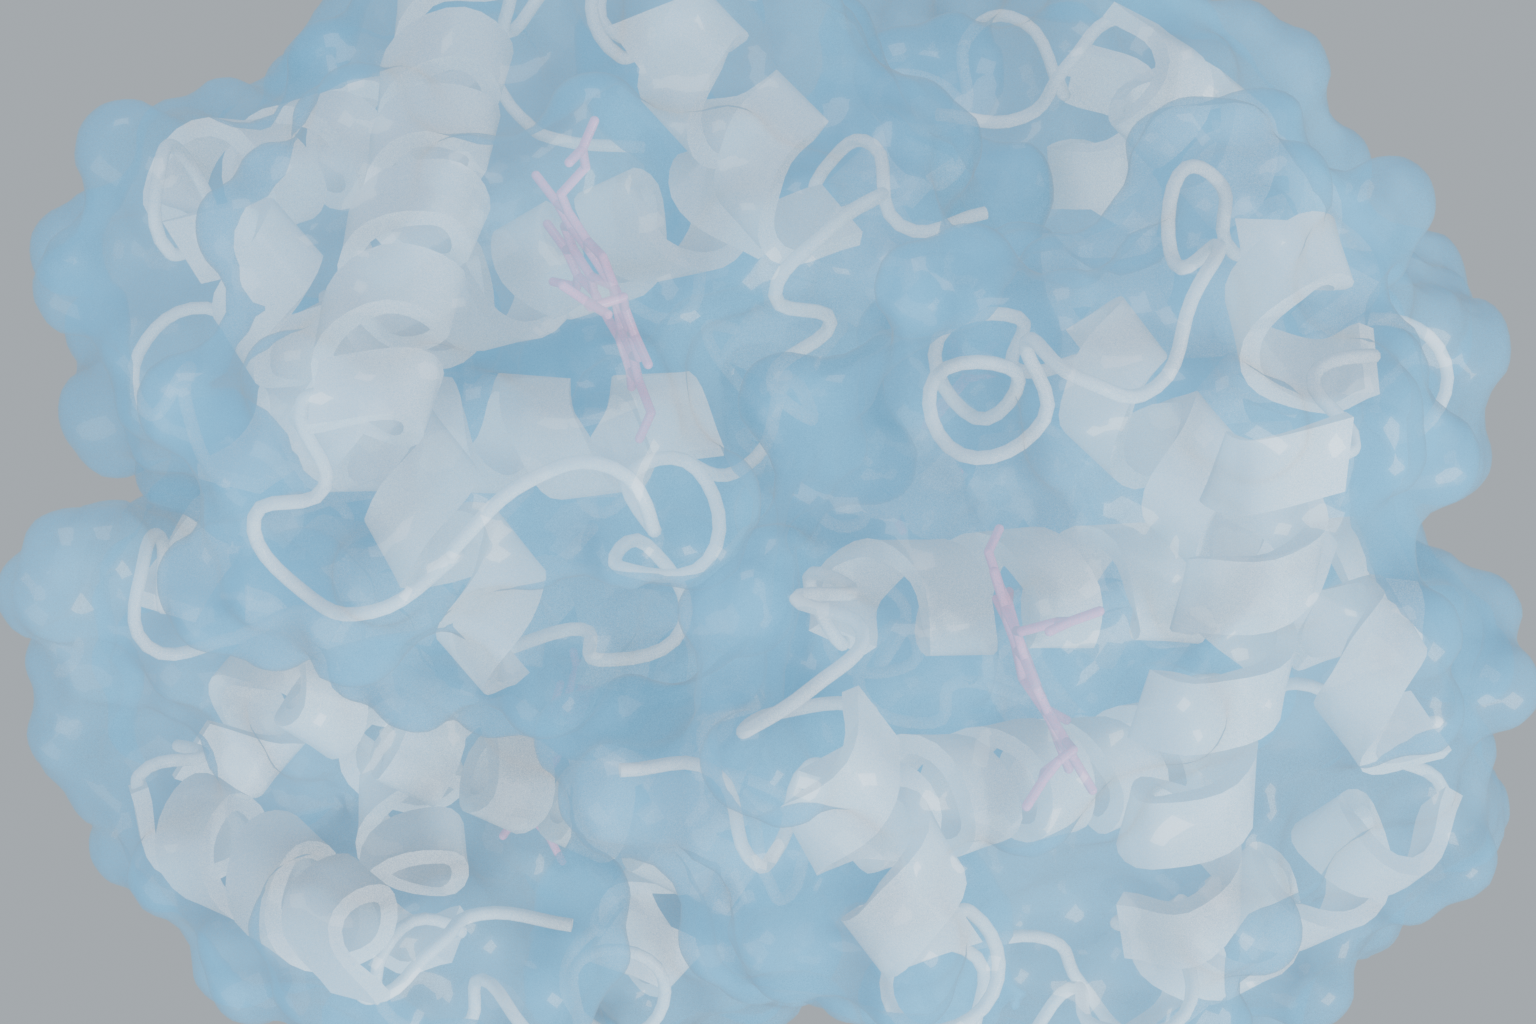
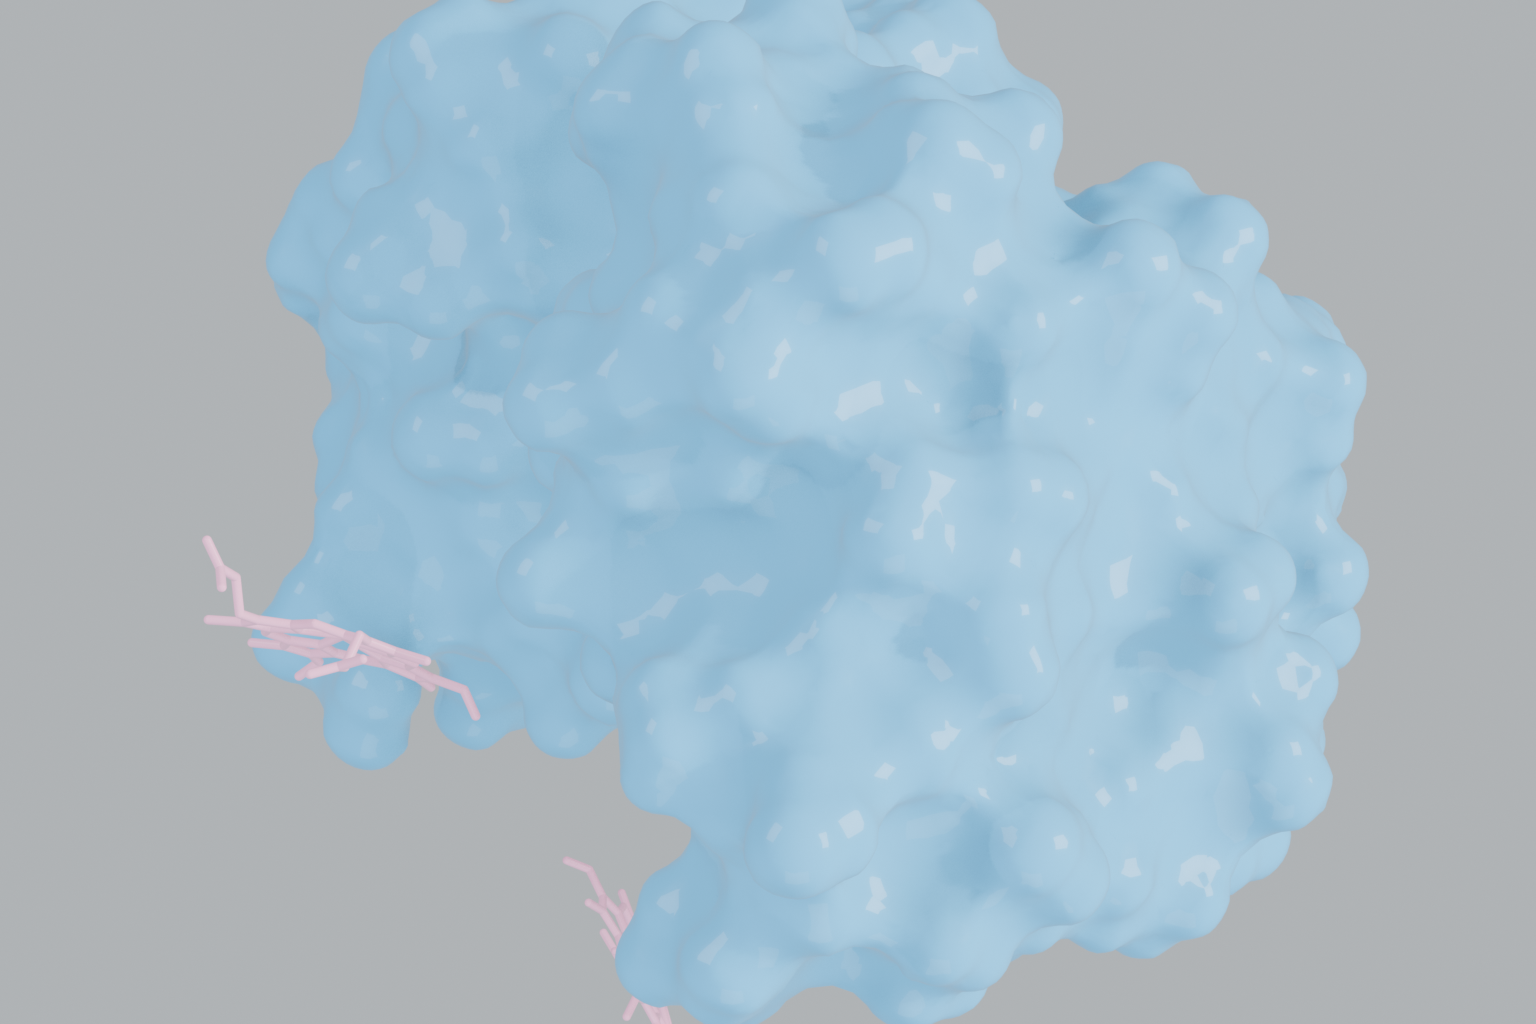
Add notebook cells for style renders and retune press presets

diff --git a/scripts/render_press_release_examples.py b/scripts/render_press_release_examples.py
@@ -35,14 +35,14 @@ class RenderPreset:
 PRESETS: list[RenderPreset] = [
     RenderPreset(
         name="01_dual_surface_reveal",
-        bg=(0.66, 0.73, 0.79, 1.0),
+        bg=(0.78, 0.85, 0.90, 1.0),
         camera_yaw_deg=-10.0,
         camera_pitch_deg=3.0,
         camera_distance_scale=1.0,
-        key_energy=680.0,
-        fill_energy=260.0,
-        rim_energy=220.0,
-        exposure=-0.56,
+        key_energy=620.0,
+        fill_energy=220.0,
+        rim_energy=210.0,
+        exposure=-0.45,
         look="High Contrast",
     ),
     RenderPreset(
@@ -51,10 +51,10 @@ PRESETS: list[RenderPreset] = [
         camera_yaw_deg=12.0,
         camera_pitch_deg=7.0,
         camera_distance_scale=0.92,
-        key_energy=640.0,
-        fill_energy=300.0,
-        rim_energy=280.0,
-        exposure=-0.52,
+        key_energy=700.0,
+        fill_energy=320.0,
+        rim_energy=260.0,
+        exposure=-0.62,
         look="High Contrast",
     ),
     RenderPreset(
@@ -71,26 +71,26 @@ PRESETS: list[RenderPreset] = [
     ),
     RenderPreset(
         name="04_mint_cream_surface",
-        bg=(0.82, 0.88, 0.76, 1.0),
+        bg=(0.90, 0.95, 0.86, 1.0),
         camera_yaw_deg=-16.0,
         camera_pitch_deg=-6.0,
-        camera_distance_scale=0.88,
+        camera_distance_scale=0.90,
         key_energy=620.0,
-        fill_energy=240.0,
-        rim_energy=200.0,
-        exposure=-0.75,
+        fill_energy=220.0,
+        rim_energy=220.0,
+        exposure=-0.38,
         look="High Contrast",
     ),
     RenderPreset(
         name="05_editorial_peach_cyan",
-        bg=(0.84, 0.79, 0.79, 1.0),
+        bg=(0.88, 0.90, 0.92, 1.0),
         camera_yaw_deg=24.0,
         camera_pitch_deg=-2.0,
         camera_distance_scale=0.92,
-        key_energy=680.0,
-        fill_energy=260.0,
-        rim_energy=220.0,
-        exposure=-0.72,
+        key_energy=620.0,
+        fill_energy=240.0,
+        rim_energy=240.0,
+        exposure=-0.40,
         look="High Contrast",
     ),
 ]
@@ -227,7 +227,7 @@ def create_soft_material(
     _set_input(bsdf, ("Coat Weight", "Coat"), coat)
     _set_input(bsdf, ("Alpha",), alpha)
     _set_input(bsdf, ("Emission Strength",), emission_strength)
-    _set_input(bsdf, ("Specular IOR Level", "Specular"), 0.22)
+    _set_input(bsdf, ("Specular IOR Level", "Specular"), 0.08)
 
     if hasattr(material, "blend_method"):
         material.blend_method = "HASHED" if alpha < 0.999 else "OPAQUE"
@@ -256,8 +256,8 @@ def create_wire_overlay_material(
     node_base.location = (-200, 80)
     _set_input(node_base, ("Base Color",), fill_color)
     _set_input(node_base, ("Roughness",), roughness)
-    _set_input(node_base, ("Transmission Weight", "Transmission"), 0.25)
-    _set_input(node_base, ("Coat Weight", "Coat"), 0.45)
+    _set_input(node_base, ("Transmission Weight", "Transmission"), 0.06)
+    _set_input(node_base, ("Coat Weight", "Coat"), 0.40)
     _set_input(node_base, ("Alpha",), alpha)
 
     node_wire = tree.nodes.new("ShaderNodeWireframe")
@@ -293,6 +293,38 @@ def get_residue_bounds(molecule) -> tuple[int, int, int]:
     hi = max(res_ids)
     mid = res_ids[len(res_ids) // 2]
     return lo, mid, hi
+
+
+def get_chain_ids(molecule) -> list[str]:
+    chain_ids: list[str] = []
+    seen: set[str] = set()
+    for raw in molecule.array.chain_id:
+        if isinstance(raw, (bytes, bytearray)):
+            chain = raw.decode("utf-8", errors="ignore").strip()
+        else:
+            chain = str(raw).strip()
+        if not chain or chain in seen:
+            continue
+        seen.add(chain)
+        chain_ids.append(chain)
+    return chain_ids
+
+
+def get_polymer_selections(molecule):
+    polymer_all = molecule.select.reset().is_polymer()
+    chain_ids = get_chain_ids(molecule)
+    if len(chain_ids) >= 2:
+        split = max(1, len(chain_ids) // 2)
+        group_a = tuple(chain_ids[:split])
+        group_b = tuple(chain_ids[split:]) if chain_ids[split:] else group_a
+        polymer_a = molecule.select.reset().is_polymer().chain_id(group_a)
+        polymer_b = molecule.select.reset().is_polymer().chain_id(group_b)
+        return polymer_a, polymer_b, polymer_all, chain_ids
+
+    lo, mid, hi = get_residue_bounds(molecule)
+    polymer_a = molecule.select.reset().res_id(range(lo, mid + 1)).is_polymer()
+    polymer_b = molecule.select.reset().res_id(range(mid + 1, hi + 1)).is_polymer()
+    return polymer_a, polymer_b, polymer_all, chain_ids
 
 
 def get_object_center(obj: bpy.types.Object) -> Vector:
@@ -331,16 +363,14 @@ def add_ligand_style(molecule, material: bpy.types.Material, style_name: str = "
 
 
 def apply_preset_styles(preset: RenderPreset, molecule) -> None:
+    polymer_a, polymer_b, polymer_all, chain_ids = get_polymer_selections(molecule)
     lo, mid, hi = get_residue_bounds(molecule)
-    polymer_a = molecule.select.reset().res_id(range(lo, mid + 1)).not_solvent()
-    polymer_b = molecule.select.reset().res_id(range(mid + 1, hi + 1)).not_solvent()
-    polymer_all = molecule.select.reset().is_polymer()
 
     if preset.name.startswith("01_"):
-        surf_a = create_soft_material("PR01_SurfaceA", (0.12, 0.44, 0.72, 1.0), 0.36, 0.01, 0.36, 0.50)
-        surf_b = create_soft_material("PR01_SurfaceB", (0.18, 0.67, 0.54, 1.0), 0.38, 0.01, 0.34, 0.48)
-        core = create_soft_material("PR01_Core", (0.90, 0.93, 0.96, 1.0), 0.36, 0.0, 0.10, 1.0)
-        ligand = create_soft_material("PR01_Ligand", (0.98, 0.42, 0.67, 1.0), 0.22, 0.0, 0.14, 1.0)
+        surf_a = create_soft_material("PR01_SurfaceA", (0.10, 0.49, 0.86, 1.0), 0.30, 0.00, 0.24, 1.0)
+        surf_b = create_soft_material("PR01_SurfaceB", (0.19, 0.77, 0.62, 1.0), 0.31, 0.00, 0.22, 1.0)
+        core = create_soft_material("PR01_Core", (0.83, 0.93, 0.98, 1.0), 0.30, 0.0, 0.08, 1.0)
+        ligand = create_soft_material("PR01_Ligand", (0.98, 0.43, 0.68, 1.0), 0.20, 0.0, 0.14, 1.0)
         molecule.add_style("surface", selection=polymer_a, material=surf_a)
         molecule.add_style("surface", selection=polymer_b, material=surf_b)
         molecule.add_style("cartoon", selection=polymer_all, material=core)
@@ -350,61 +380,76 @@ def apply_preset_styles(preset: RenderPreset, molecule) -> None:
     if preset.name.startswith("02_"):
         wire_surf = create_wire_overlay_material(
             "PR02_WireSurface",
-            fill_color=(0.12, 0.61, 0.93, 1.0),
-            line_color=(0.86, 0.90, 0.98, 1.0),
-            roughness=0.34,
-            alpha=0.62,
+            fill_color=(0.03, 0.56, 0.95, 1.0),
+            line_color=(0.95, 0.97, 1.00, 1.0),
+            roughness=0.28,
+            alpha=0.68,
         )
-        core = create_soft_material("PR02_Core", (0.96, 0.63, 0.34, 1.0), 0.34, 0.0, 0.12, 1.0)
-        ligand = create_soft_material("PR02_Ligand", (0.72, 0.82, 0.23, 1.0), 0.18, 0.0, 0.20, 1.0)
+        core_a = create_soft_material("PR02_CoreA", (0.98, 0.64, 0.34, 1.0), 0.32, 0.0, 0.10, 1.0)
+        core_b = create_soft_material("PR02_CoreB", (0.96, 0.56, 0.78, 1.0), 0.32, 0.0, 0.10, 1.0)
+        ligand = create_soft_material("PR02_Ligand", (0.82, 0.88, 0.29, 1.0), 0.16, 0.0, 0.18, 1.0)
         molecule.add_style("surface", selection=polymer_all, material=wire_surf)
-        molecule.add_style("cartoon", selection=polymer_all, material=core)
+        molecule.add_style("cartoon", selection=polymer_a, material=core_a)
+        molecule.add_style("cartoon", selection=polymer_b, material=core_b)
         add_ligand_style(molecule, ligand, "sticks")
         return
 
     if preset.name.startswith("03_"):
         palette = [
-            (0.95, 0.86, 0.63, 1.0),
-            (0.69, 0.86, 0.98, 1.0),
-            (0.95, 0.66, 0.84, 1.0),
-            (0.69, 0.94, 0.76, 1.0),
-            (0.98, 0.75, 0.67, 1.0),
+            (0.96, 0.89, 0.66, 1.0),
+            (0.74, 0.89, 0.99, 1.0),
+            (0.97, 0.70, 0.87, 1.0),
+            (0.74, 0.95, 0.79, 1.0),
+            (0.99, 0.78, 0.70, 1.0),
         ]
-        chunks = [
-            (lo, lo + (mid - lo) // 2),
-            (lo + (mid - lo) // 2 + 1, mid),
-            (mid + 1, mid + (hi - mid) // 2),
-            (mid + (hi - mid) // 2 + 1, hi),
-        ]
-        for idx, (start, end) in enumerate(chunks):
-            if end < start:
-                continue
-            mat = create_soft_material(
-                f"PR03_Cartoon_{idx}",
-                palette[idx],
-                roughness=0.42,
-                transmission=0.0,
-                coat=0.08,
-                alpha=1.0,
-            )
-            selection = molecule.select.reset().res_id(range(start, end + 1)).is_polymer()
-            molecule.add_style("cartoon", selection=selection, material=mat)
-        ligand = create_soft_material("PR03_Ligand", (0.96, 0.53, 0.72, 1.0), 0.20, 0.0, 0.18, 1.0)
+        if chain_ids:
+            for idx, chain_id in enumerate(chain_ids):
+                mat = create_soft_material(
+                    f"PR03_Cartoon_{idx}",
+                    palette[idx % len(palette)],
+                    roughness=0.40,
+                    transmission=0.0,
+                    coat=0.08,
+                    alpha=1.0,
+                )
+                selection = molecule.select.reset().is_polymer().chain_id(chain_id)
+                molecule.add_style("cartoon", selection=selection, material=mat)
+        else:
+            chunks = [
+                (lo, lo + (mid - lo) // 2),
+                (lo + (mid - lo) // 2 + 1, mid),
+                (mid + 1, mid + (hi - mid) // 2),
+                (mid + (hi - mid) // 2 + 1, hi),
+            ]
+            for idx, (start, end) in enumerate(chunks):
+                if end < start:
+                    continue
+                mat = create_soft_material(
+                    f"PR03_Cartoon_{idx}",
+                    palette[idx],
+                    roughness=0.40,
+                    transmission=0.0,
+                    coat=0.08,
+                    alpha=1.0,
+                )
+                selection = molecule.select.reset().res_id(range(start, end + 1)).is_polymer()
+                molecule.add_style("cartoon", selection=selection, material=mat)
+        ligand = create_soft_material("PR03_Ligand", (0.97, 0.58, 0.76, 1.0), 0.18, 0.0, 0.14, 1.0)
         add_ligand_style(molecule, ligand, "sticks")
         return
 
     if preset.name.startswith("04_"):
         shell_a = create_wire_overlay_material(
             "PR04_ShellA",
-            fill_color=(0.84, 0.92, 0.80, 1.0),
-            line_color=(0.67, 0.77, 0.61, 1.0),
-            roughness=0.38,
-            alpha=0.46,
+            fill_color=(0.84, 0.92, 0.78, 1.0),
+            line_color=(0.74, 0.82, 0.66, 1.0),
+            roughness=0.34,
+            alpha=0.74,
         )
-        shell_b = create_soft_material("PR04_ShellB", (0.93, 0.96, 0.89, 1.0), 0.42, 0.01, 0.16, 0.32)
-        core_a = create_soft_material("PR04_CoreA", (0.60, 0.75, 0.28, 1.0), 0.36, 0.0, 0.06, 1.0, emission_strength=0.08)
-        core_b = create_soft_material("PR04_CoreB", (0.16, 0.67, 0.77, 1.0), 0.32, 0.0, 0.08, 1.0, emission_strength=0.10)
-        ligand = create_soft_material("PR04_Ligand", (0.86, 0.48, 0.19, 1.0), 0.20, 0.0, 0.12, 1.0)
+        shell_b = create_soft_material("PR04_ShellB", (0.92, 0.96, 0.87, 1.0), 0.34, 0.00, 0.08, 0.68)
+        core_a = create_soft_material("PR04_CoreA", (0.62, 0.82, 0.30, 1.0), 0.30, 0.0, 0.06, 1.0, emission_strength=0.09)
+        core_b = create_soft_material("PR04_CoreB", (0.13, 0.83, 0.90, 1.0), 0.28, 0.0, 0.08, 1.0, emission_strength=0.12)
+        ligand = create_soft_material("PR04_Ligand", (0.90, 0.60, 0.26, 1.0), 0.18, 0.0, 0.12, 1.0)
         molecule.add_style("surface", selection=polymer_a, material=shell_a)
         molecule.add_style("surface", selection=polymer_b, material=shell_b)
         molecule.add_style("cartoon", selection=polymer_a, material=core_a)
@@ -413,11 +458,11 @@ def apply_preset_styles(preset: RenderPreset, molecule) -> None:
         return
 
     # 05 default
-    surf_a = create_soft_material("PR05_SurfaceA", (0.22, 0.54, 0.82, 1.0), 0.34, 0.01, 0.22, 0.52)
-    surf_b = create_soft_material("PR05_SurfaceB", (0.76, 0.43, 0.66, 1.0), 0.34, 0.01, 0.22, 0.48)
-    core_a = create_soft_material("PR05_CoreA", (0.84, 0.40, 0.22, 1.0), 0.34, 0.0, 0.10, 1.0, emission_strength=0.06)
-    core_b = create_soft_material("PR05_CoreB", (0.18, 0.68, 0.80, 1.0), 0.32, 0.0, 0.10, 1.0, emission_strength=0.08)
-    ligand = create_soft_material("PR05_Ligand", (0.93, 0.30, 0.53, 1.0), 0.20, 0.0, 0.20, 1.0)
+    surf_a = create_soft_material("PR05_SurfaceA", (0.34, 0.70, 0.95, 1.0), 0.28, 0.00, 0.20, 0.90)
+    surf_b = create_soft_material("PR05_SurfaceB", (0.87, 0.62, 0.82, 1.0), 0.28, 0.00, 0.20, 0.86)
+    core_a = create_soft_material("PR05_CoreA", (0.98, 0.66, 0.44, 1.0), 0.28, 0.0, 0.10, 1.0, emission_strength=0.07)
+    core_b = create_soft_material("PR05_CoreB", (0.20, 0.78, 0.90, 1.0), 0.28, 0.0, 0.10, 1.0, emission_strength=0.10)
+    ligand = create_soft_material("PR05_Ligand", (0.97, 0.39, 0.60, 1.0), 0.18, 0.0, 0.20, 1.0)
     molecule.add_style("surface", selection=polymer_a, material=surf_a)
     molecule.add_style("surface", selection=polymer_b, material=surf_b)
     molecule.add_style("cartoon", selection=polymer_a, material=core_a)
@@ -437,6 +482,9 @@ def configure_render(scene: bpy.types.Scene, preset: RenderPreset) -> None:
         if hasattr(scene.eevee, "use_bloom"):
             scene.eevee.use_bloom = False
     if hasattr(scene, "view_settings"):
+        transforms = {item.name for item in scene.view_settings.bl_rna.properties["view_transform"].enum_items}
+        if "Standard" in transforms:
+            scene.view_settings.view_transform = "Standard"
         scene.view_settings.exposure = preset.exposure
         if hasattr(scene.view_settings, "gamma"):
             scene.view_settings.gamma = 1.0
@@ -445,6 +493,8 @@ def configure_render(scene: bpy.types.Scene, preset: RenderPreset) -> None:
     scene.render.resolution_x = 1536
     scene.render.resolution_y = 1024
     scene.render.image_settings.file_format = "PNG"
+    if scene.camera is not None and hasattr(scene.camera.data, "dof"):
+        scene.camera.data.dof.use_dof = False
 
 
 def render_preset(

diff --git a/README.md b/README.md
@@ -108,6 +108,11 @@ Press-release style renders:
 pixi run render-press-examples
 ```
 
+Notebook cells are included in:
+
+- `/Users/mb/Documents/blender_bridge/open_blender_scene.ipynb` (`### Press-Release Style Renders`)
+- `/Users/mb/Documents/blender_bridge/blender_live_connection.ipynb` (`### Press-Release Style Renders`)
+
 NotebookConnector / blender_notebook style live connection:
 
 - Inspired by [NotebookConnector](https://github.com/BradyAJohnston/NotebookConnector) and [blender_notebook](https://github.com/Octoframes/blender_notebook).
